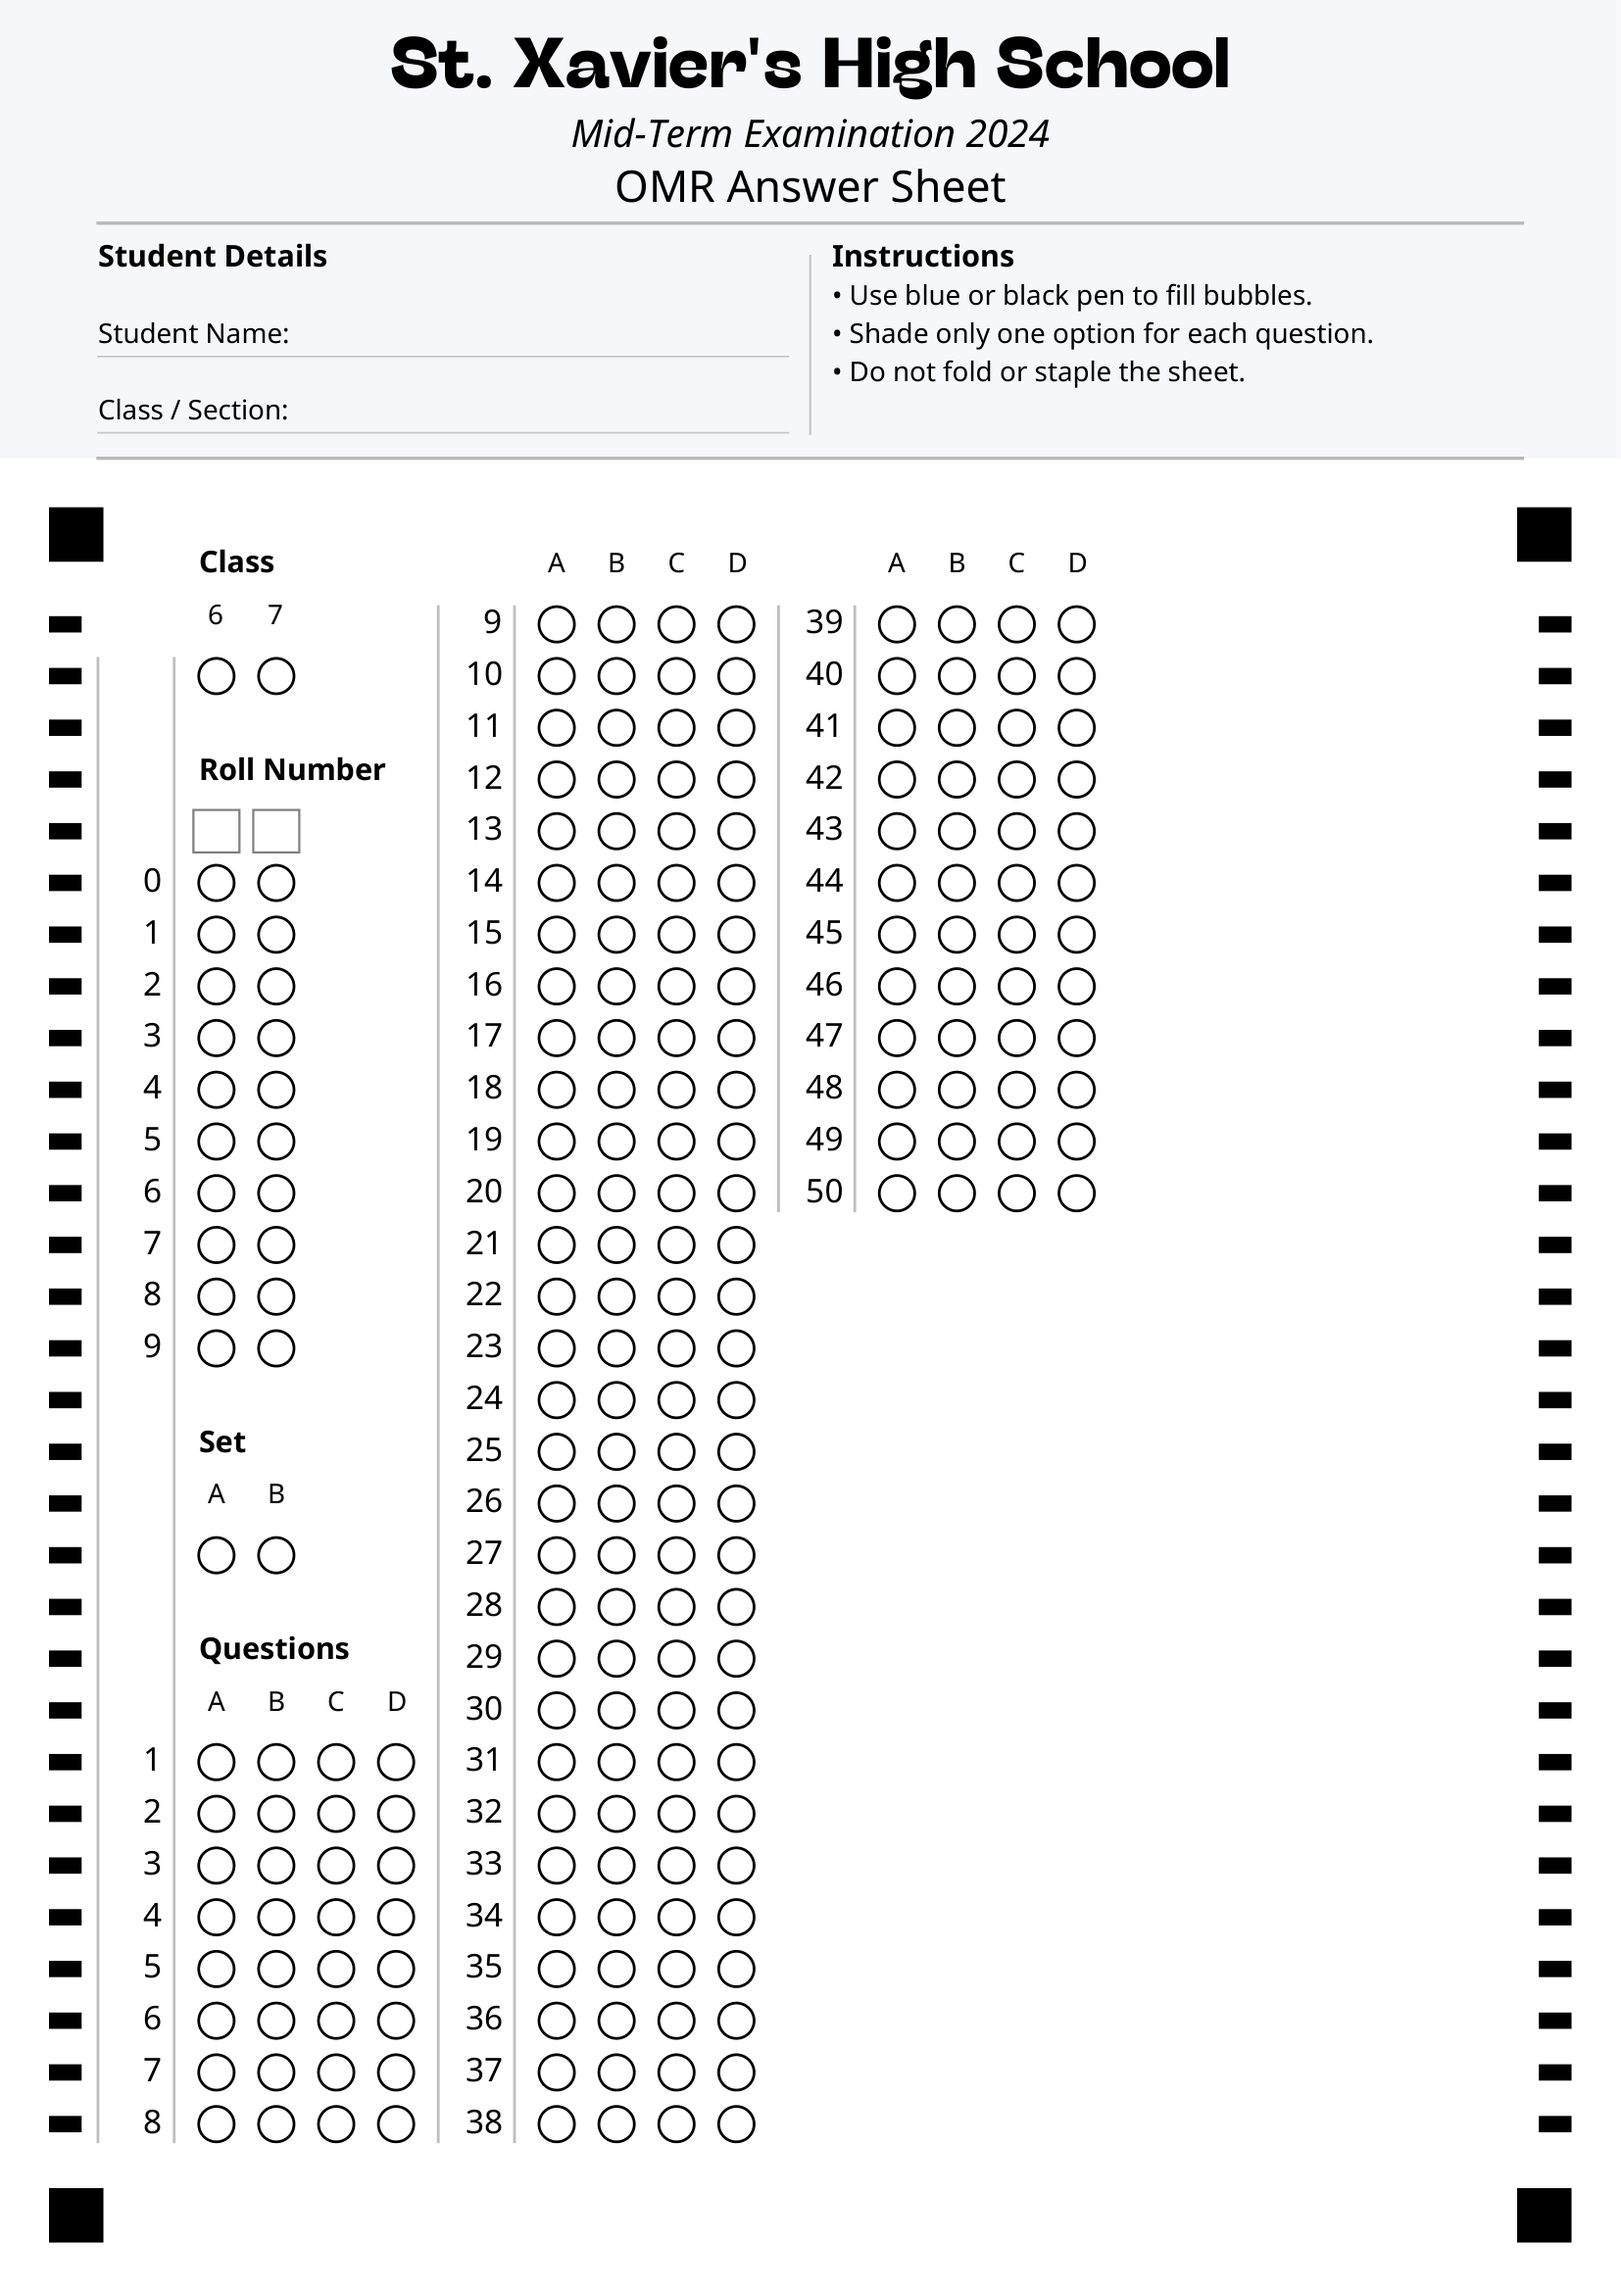
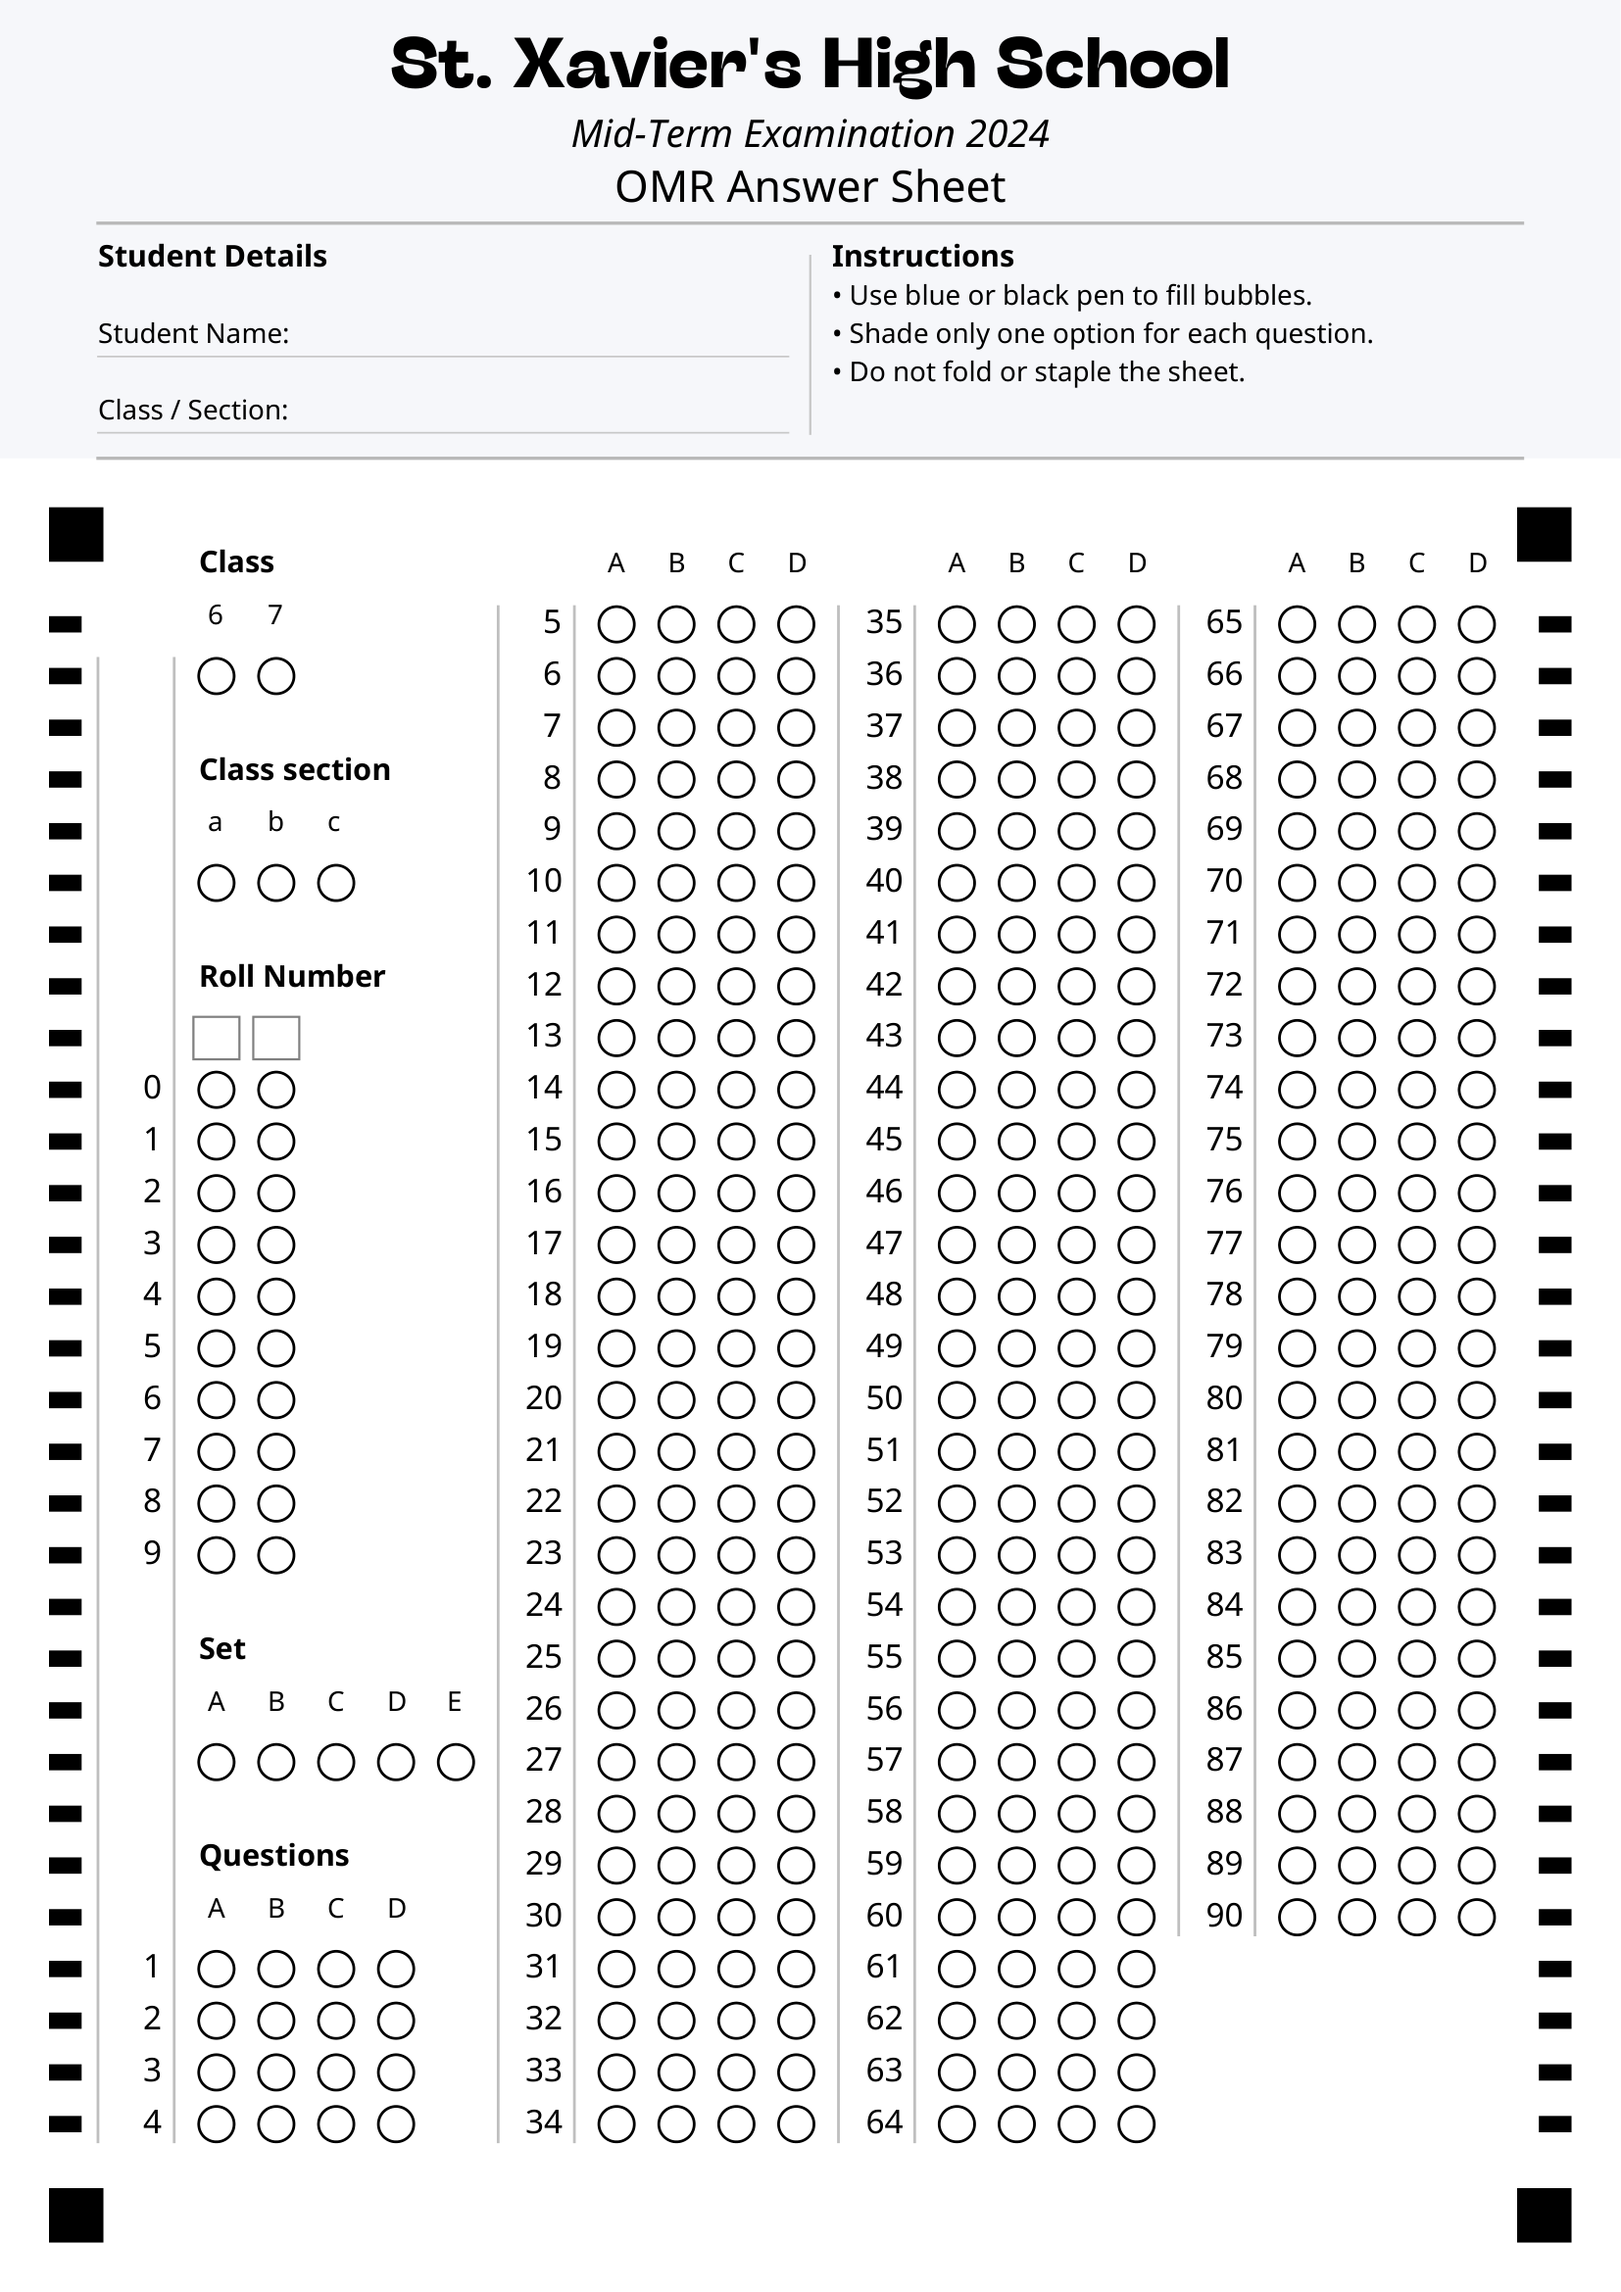
Add class section/division bubble field for student section identification
Add new configurable field 'class_section_options' to identify which class
section or division a student belongs to (e.g., 10-A, 10-B, 10-C).

Changes:
- omr_config.py: Add class_section_options field to SheetLayout (default: 3)
- omr_layout.py: Generate class section bubbles with lowercase labels (a,b,c)
- omr_sheet_generator_new.py: Render 'Class section' label and section headers
- omr_config_loader.py: Handle class_section_options in load/save
- omr_processor.py: Annotate class section bubbles with 'Sec' label
- sheet_config.json: Add class_section_options field
- README.md: Document class_section_options field

Section appears between Class and Roll Number when configured > 0.
Labels use lowercase letters to differentiate from Set labels (uppercase).

diff --git a/omr_layout.py b/omr_layout.py
@@ -152,6 +152,23 @@ def build_section_specifications(sheet: SheetLayout) -> List[SectionSpec]:
             has_special_row=True,  # Number headers (6 7 8 9 10) above bubbles
             special_row_position="before",
         ),
+    ]
+
+    # Add class section only if configured (skip when 0)
+    if sheet.class_section_options > 0:
+        specs.append(
+            SectionSpec(
+                category="class_section",
+                label="Class section",
+                bubble_rows=1,  # Single row with all options horizontal
+                has_label_row=True,
+                has_spacer_after=True,
+                has_special_row=True,  # Option headers (a b c d) above bubbles
+                special_row_position="before",
+            )
+        )
+
+    specs.extend([
         SectionSpec(
             category="roll",
             label="Roll Number",
@@ -179,7 +196,7 @@ def build_section_specifications(sheet: SheetLayout) -> List[SectionSpec]:
             has_special_row=True,
             special_row_position="before",
         ),
-    ]
+    ])
     return specs
 
 
@@ -336,8 +353,8 @@ def generate_all_bubble_coordinates(
         return [], [], 0
 
     # Calculate column widths responsively
-    # First column needs to fit all sections: Class, Roll, Set, and Questions
-    first_column_options = max(sheet.class_options, sheet.roll_columns, sheet.set_options, sheet.question_options)
+    # First column needs to fit all sections: Class, Class Section, Roll, Set, and Questions
+    first_column_options = max(sheet.class_options, sheet.class_section_options, sheet.roll_columns, sheet.set_options, sheet.question_options)
     first_column_width = layout.group_width(first_column_options)
 
     # Subsequent columns only have Questions(4)
@@ -452,6 +469,18 @@ def create_bubble_group_from_allocation(
             x = x_base + opt_idx * (layout.diameter + layout.option_gap)
             bubbles.append(
                 BubbleCoordinate(x=x, y=y, radius=layout.radius, label=str(class_num), index=opt_idx)
+            )
+
+    elif allocation.section_category == "class_section":
+        # Generate class section labels dynamically based on config (lowercase a, b, c, ...)
+        section_labels = [chr(ord("a") + i) for i in range(sheet.class_section_options)]
+        display_label = ""  # No individual display label for horizontal layout
+        group_index = 0  # Single group for all section options
+        # Multiple bubbles horizontal
+        for opt_idx, label in enumerate(section_labels):
+            x = x_base + opt_idx * (layout.diameter + layout.option_gap)
+            bubbles.append(
+                BubbleCoordinate(x=x, y=y, radius=layout.radius, label=label, index=opt_idx)
             )
 
     elif allocation.section_category == "roll":

diff --git a/omr_processor.py b/omr_processor.py
@@ -604,6 +604,32 @@ def overlay_labels(image: np.ndarray, group_samples: List[BubbleGroupSample]) ->
                     thickness,
                 )
 
+        elif sample.group.category == "class_section":
+            # Class section: Draw "Sec" label above first bubble and section letters inside bubbles
+            first_detection = sample.detections[0]
+            label_text = "Sec"
+            font_scale = 0.35
+            text_size = cv2.getTextSize(label_text, font, font_scale, thickness)[0]
+            text_x = first_detection.bubble.x - text_size[0] // 2
+            text_y = first_detection.bubble.y - first_detection.bubble.radius - 5
+            cv2.putText(output, label_text, (text_x, text_y), font, font_scale, (0, 0, 255), thickness)
+
+            # Draw section letter (a/b/c/d) inside each bubble
+            for detection in sample.detections:
+                section_text = detection.layout.label
+                section_size = cv2.getTextSize(section_text, font, 0.4, thickness)[0]
+                text_x = detection.bubble.x - section_size[0] // 2
+                text_y = detection.bubble.y + section_size[1] // 2
+                cv2.putText(
+                    output,
+                    section_text,
+                    (text_x, text_y),
+                    font,
+                    0.4,
+                    (0, 128, 0),
+                    thickness,
+                )
+
         elif sample.group.category == "set":
             # Set: Draw "Set" label above first bubble and option letters inside bubbles
             first_detection = sample.detections[0]
@@ -724,7 +750,7 @@ def process_omr_sheet(
 
     # Build summary message
     summary_parts = []
-    for category in ["class", "roll", "set", "question"]:
+    for category in ["class", "class_section", "roll", "set", "question"]:
         if category in category_counts:
             counts = category_counts[category]
             if category == "roll":

diff --git a/omr_sheet_generator_new.py b/omr_sheet_generator_new.py
@@ -324,7 +324,7 @@ def draw_unified_bubble_section(
 
             if allocation.row_type == "label":
                 # Draw section label
-                section_labels = {"class": "Class", "roll": "Roll Number", "set": "Set", "question": "Questions"}
+                section_labels = {"class": "Class", "class_section": "Class section", "roll": "Roll Number", "set": "Set", "question": "Questions"}
                 label_text = section_labels.get(allocation.section_category, "")
                 pdf.set_font("Noto", "B", size=11)
                 _text(pdf, geom, x_base, allocation.y_position, label_text)
@@ -342,6 +342,13 @@ def draw_unified_bubble_section(
                         x = x_bubble_base + opt_idx * (layout.diameter + layout.option_gap)
                         # Center single digit under bubble
                         _text(pdf, geom, x - 3.25, allocation.y_position, str(class_num))
+                elif allocation.section_category == "class_section":
+                    # Class section headers: a b c d (lowercase)
+                    section_labels = [chr(ord("a") + i) for i in range(sheet.class_section_options)]
+                    for opt_idx, label in enumerate(section_labels):
+                        x = x_bubble_base + opt_idx * (layout.diameter + layout.option_gap)
+                        # Center single character under bubble
+                        _text(pdf, geom, x - 3.25, allocation.y_position, label)
                 elif allocation.section_category == "set":
                     # Set headers: A B C D
                     num_options = sheet.set_options

diff --git a/omr_config.py b/omr_config.py
@@ -71,11 +71,14 @@ class SheetLayout:
     # Class section (first in column)
     class_options: int = 5  # Classes 6-10
 
-    # Roll number section (second in column)
+    # Class section/division (second in column)
+    class_section_options: int = 3  # Class sections (a, b, c)
+
+    # Roll number section (third in column)
     # Note: Roll numbers always have 10 rows (digits 0-9)
     roll_columns: int = 3
 
-    # Set section (third in column)
+    # Set section (fourth in column)
     set_options: int = 4  # Sets A-D
 
     # Question section (fills remaining rows)
@@ -85,6 +88,7 @@ class SheetLayout:
     def __post_init__(self):
         """Validate configuration."""
         assert self.class_options > 0, "Class options must be positive"
+        assert self.class_section_options >= 0, "Class section options must be non-negative"
         assert self.roll_columns > 0, "Roll columns must be positive"
         assert self.set_options > 0, "Set options must be positive"
         assert self.question_options > 0, "Question options must be positive"

diff --git a/omr_config_loader.py b/omr_config_loader.py
@@ -37,6 +37,8 @@ def load_sheet_config(config_path: Path | str) -> SheetLayout:
 
     if "class_options" in config_dict:
         valid_params["class_options"] = config_dict["class_options"]
+    if "class_section_options" in config_dict:
+        valid_params["class_section_options"] = config_dict["class_section_options"]
     if "roll_columns" in config_dict:
         valid_params["roll_columns"] = config_dict["roll_columns"]
     # Note: roll_rows removed - always 10 for digits 0-9
@@ -64,6 +66,7 @@ def save_sheet_config(sheet: SheetLayout, config_path: Path | str) -> None:
 
     config_dict = {
         "class_options": sheet.class_options,
+        "class_section_options": sheet.class_section_options,
         "roll_columns": sheet.roll_columns,
         "set_options": sheet.set_options,
         "question_options": sheet.question_options,

diff --git a/README.md b/README.md
@@ -157,6 +157,7 @@ The `sheet_config.json` file controls these fields:
 ```json
 {
   "class_options": 5,
+  "class_section_options": 3,
   "roll_columns": 3,
   "set_options": 4,
   "question_options": 4,
@@ -166,6 +167,7 @@ The `sheet_config.json` file controls these fields:
 
 **Fields:**
 - `class_options` – Number of class/grade bubbles (e.g., 5 for grades 6-10)
+- `class_section_options` – Number of class section/division bubbles (e.g., 3 for sections a, b, c). Set to 0 to skip this section entirely.
 - `roll_columns` – Number of digits in the roll number (e.g., 3 for roll numbers 000-999). Roll numbers always have 10 rows for digits 0-9.
 - `set_options` – Number of test set/version bubbles (e.g., 4 for sets A-D)
 - `question_options` – Number of answer choices per question (typically 4 for A/B/C/D)
@@ -217,6 +219,7 @@ from omr_config_loader import save_sheet_config
 # Create custom layout
 layout = SheetLayout(
     class_options=5,
+    class_section_options=3,  # Class sections (a, b, c)
     roll_columns=4,  # 4-digit roll numbers (always 10 rows for digits 0-9)
     set_options=4,
     question_options=5,  # A/B/C/D/E
